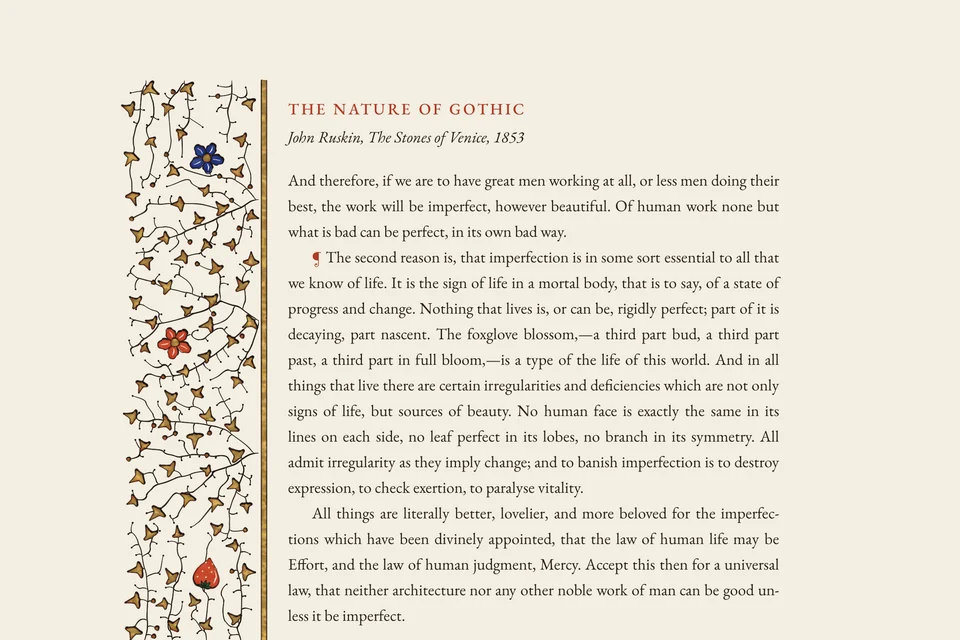
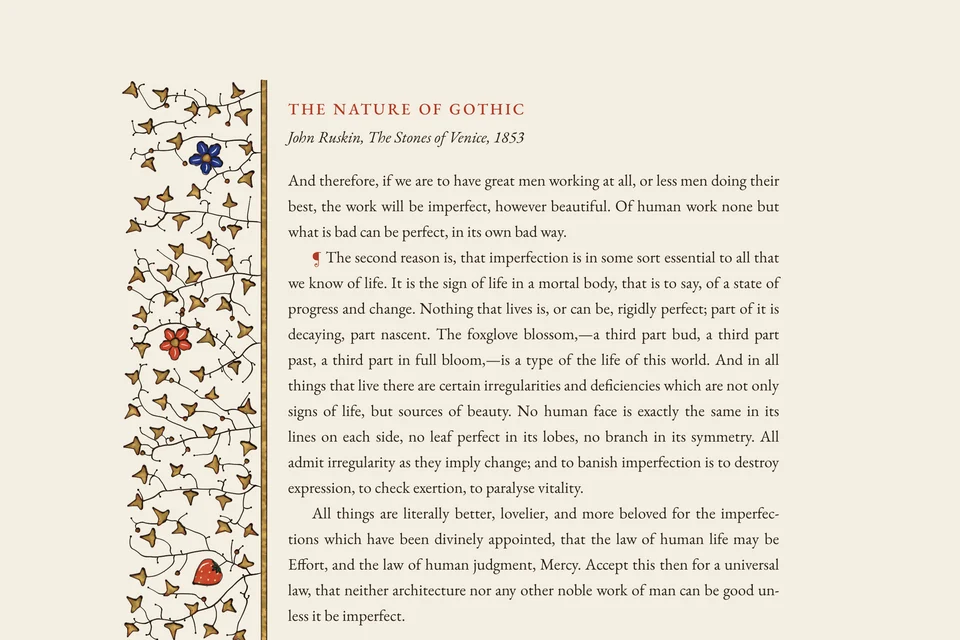
Ivy border: every stem from the bar; nothing through a leaf; leaves over stems in the growth
Stems now all spring from the bar, so nothing starts in mid-air; branches join their stem
at full width. A reached leaf keeps its room, so later twigs no longer cross it, and leaves
are sized to the room reserved for them (strawberries get more). The growth draws on two
pairs of layers, stems under leaves and flowers, so a stem that finishes late is never laid
over a leaf that opened earlier.

Claude-Session: https://claude.ai/code/session_01AVocxv6hjz2Gj8s9KXjVNV

Changed region(s): [[0.125, 0.125, 0.2812, 1.0]]

diff --git a/playground/01-ivy-border.html b/playground/01-ivy-border.html
@@ -52,6 +52,8 @@
 <main class="sheet">
   <canvas id="orn" aria-hidden="true"></canvas>
   <canvas id="live" aria-hidden="true"></canvas>
+  <canvas id="fruit" aria-hidden="true"></canvas>
+  <canvas id="fruitLive" aria-hidden="true"></canvas>
   <article class="text">
     <h1>The Nature of Gothic</h1>
     <p class="sub">John Ruskin, The Stones of Venice, 1853</p>
@@ -118,7 +120,7 @@ function compose() {
   const dpr = Math.min(2, devicePixelRatio || 1);
   const ctx = c => { c.width = Math.round(S.w * dpr); c.height = Math.round(S.h * dpr); c.style.width = S.w + 'px'; c.style.height = S.h + 'px';
     const g = c.getContext('2d'); g.setTransform(dpr, 0, 0, dpr, 0, 0); return g; };
-  const g = ctx(cv), live = ctx(document.getElementById('live'));
+  const g = ctx(cv), live = ctx(document.getElementById('live')), fg = ctx(document.getElementById('fruit')), flive = ctx(document.getElementById('fruitLive'));
   const phone = T.x < 120;
   let len, depth, toPage, bar;
   if (!phone) {   // side border: the bar runs down beside the text; v grows leftward into the margin
@@ -149,7 +151,7 @@ function compose() {
   for (const s of ST) {
     if (s.pts.length < 2) continue;
     const tip = s.ids[s.ids.length - 1], e = endAt.get(tip), pts = chaikin(s.pts, 3).map(toPage);
-    const o = { w: .5 + .8 * Math.log(1 + s.size) / Math.log(1 + maxS), seed: (tip * 7919) & 0xffff, start: s.root ? 'pool' : 'taper', end: !e || e.kind === 'dot' ? 'ball' : 'cut' };
+    const o = { w: .5 + .8 * Math.log(1 + s.size) / Math.log(1 + maxS), seed: (tip * 7919) & 0xffff, start: s.root ? 'pool' : 'cut', end: !e || e.kind === 'dot' ? 'ball' : 'cut' };
     parts.push(stem(sec(s.t0), Math.max(sec(s.t0) + .05, sec(s.t1)), pts, o));
   }
   // what the stems reached opens when they reach it: flowers (set first), then gold
@@ -162,12 +164,12 @@ function compose() {
       const paint = e.hero.kind === 'strawberry' ? cx => strawberry(cx, c, norm([c[0] - q[0], c[1] - q[1]]), e.hero.r, SEED + sd, dpr)
         : cx => flower(cx, c, e.hero.r, e.hero.kind === 'rose' ? 'vermilion' : 'lapis', SEED + sd, dpr);
       parts.push(opening(t + .2, t + 1.1, paint, [c[0] - R - 4, c[1] - R - 4, 2 * R + 8, 2 * R + 8], dpr, e.hero.kind === 'strawberry' ? q : c, (rr() < .5 ? -1 : 1) * 1.1)); }
-    else if (e.kind === 'ivy') { const c = toPage(e.p), d = norm([c[0] - q[0], c[1] - q[1]]), ax = norm([d[0] + dirAt(e.node)[0], d[1] + dirAt(e.node)[1]]), L = 14 + rr() * 6;
+    else if (e.kind === 'ivy') { const c = toPage(e.p), d = norm([c[0] - q[0], c[1] - q[1]]), ax = norm([d[0] * 1.6 + dirAt(e.node)[0], d[1] * 1.6 + dirAt(e.node)[1]]), L = 17 + rr() * 4;
       parts.push(opening(t, t + .75, cx => goldIvy(cx, q, ax, L, sd, dpr), [q[0] - L - 4, q[1] - L - 4, 2 * L + 8, 2 * L + 8], dpr, q, (rr() < .5 ? -1 : 1) * .7)); }
     else if (e.kind === 'bezant') { const d = dirAt(e.node), c = [q[0] + d[0] * 2.4, q[1] + d[1] * 2.4];
       parts.push(opening(t, t + .35, cx => bezant(cx, c, 2.5, sd, dpr), [c[0] - 6, c[1] - 6, 12, 12], dpr, q, 0)); }
   }
-  return { g, live, parts, end: Math.max(...parts.map(p => p.t1)) };
+  return { layers: [[g, live], [fg, flive]], parts, end: Math.max(...parts.map(p => p.t1)) };
 }
 // The wild strawberry of the borders: a berry hanging from its stalk, its seeds picked out, a green calyx at the top
 function strawberry(g, c, ax, R, s, dpr) {
@@ -194,7 +196,7 @@ function stem(t0, t1, pts, o) {
   const S = [0]; for (let i = 1; i < pts.length; i++) S.push(S[i - 1] + Math.hypot(pts[i][0] - pts[i - 1][0], pts[i][1] - pts[i - 1][1]));
   const upTo = f => { const L = f * S[S.length - 1]; let i = 1; while (i < S.length - 1 && S[i] < L) i++;
     const u = (L - S[i - 1]) / ((S[i] - S[i - 1]) || 1), a = pts[i - 1], b = pts[i]; return [...pts.slice(0, i), [a[0] + (b[0] - a[0]) * u, a[1] + (b[1] - a[1]) * u]]; };
-  return { t0, t1, at: (g, f) => { const p = upTo(f); if (p.length > 1 && S[S.length - 1] * f > .6) pen(g, p, { ...o, end: 'taper' }); }, done: g => pen(g, pts, o) };
+  return { t0, t1, layer: 0, at: (g, f) => { const p = upTo(f); if (p.length > 1 && S[S.length - 1] * f > .6) pen(g, p, { ...o, end: 'taper' }); }, done: g => pen(g, pts, o) };
 }
 function painted(paint, [x, y, w, h], dpr) {
   let cv = null; return () => cv ??= (() => { const c = new OffscreenCanvas(Math.ceil(w * dpr), Math.ceil(h * dpr)), k = c.getContext('2d'); k.setTransform(dpr, 0, 0, dpr, -x * dpr, -y * dpr); paint(k); return c; })();
@@ -202,14 +204,14 @@ function painted(paint, [x, y, w, h], dpr) {
 // a leaf or flower: grows out from its point of attachment, turning open as it comes
 function opening(t0, t1, paint, box, dpr, anchor, turn) {
   const img = painted(paint, box, dpr), [x, y, w, h] = box;
-  return { t0, t1, make: img, done: g => g.drawImage(img(), x, y, w, h),
+  return { t0, t1, layer: 1, make: img, done: g => g.drawImage(img(), x, y, w, h),
     at: (g, f) => { const e = Math.max(.02, ease(f)); g.save(); g.translate(anchor[0], anchor[1]); g.rotate(turn * (1 - Math.min(1, e)) ** 2); g.scale(e, e);
       g.translate(-anchor[0], -anchor[1]); g.globalAlpha = Math.min(1, f * 4); g.drawImage(img(), x, y, w, h); g.restore(); } };
 }
 // the bar: revealed from its head to its foot
 function laid(t0, t1, paint, box, dpr, [a, b]) {
   const img = painted(paint, box, dpr), [x, y, w, h] = box;
-  return { t0, t1, make: img, done: g => g.drawImage(img(), x, y, w, h),
+  return { t0, t1, layer: 1, make: img, done: g => g.drawImage(img(), x, y, w, h),
     at: (g, f) => { g.save(); g.beginPath(); const e = 1 - (1 - f) ** 2;
       if (Math.abs(b[1] - a[1]) > Math.abs(b[0] - a[0])) g.rect(x, y, w, h * e); else g.rect(x, y, w * e, h);
       g.clip(); g.drawImage(img(), x, y, w, h); g.restore(); } };
@@ -218,13 +220,14 @@ let raf = 0;
 function render(animate) {
   cancelAnimationFrame(raf);
   const t0 = performance.now(), score = compose(), t1 = performance.now();
-  if (!animate) { score.parts.forEach(p => p.done(score.g)); document.body.dataset.timing = `grow ${(t1 - t0) | 0} ms, draw ${(performance.now() - t1) | 0} ms`; return; }
+  if (!animate) { score.parts.forEach(p => p.done(score.layers[p.layer][0])); document.body.dataset.timing = `grow ${(t1 - t0) | 0} ms, draw ${(performance.now() - t1) | 0} ms`; return; }
   score.parts.forEach(p => p.make?.());   // paint the leaves and flowers before the clock starts, so it never stutters
-  const start = performance.now(), { g, live, parts } = score, W = live.canvas.width, H = live.canvas.height, finished = new Uint8Array(parts.length);
+  const start = performance.now(), { layers, parts } = score, finished = new Uint8Array(parts.length);
   const tick = () => {
     const now = (performance.now() - start) / 1000;
-    live.save(); live.setTransform(1, 0, 0, 1, 0, 0); live.clearRect(0, 0, W, H); live.restore();
-    parts.forEach((p, i) => { if (finished[i]) return; if (now >= p.t1) { p.done(g); finished[i] = 1; } else if (now > p.t0) p.at(live, (now - p.t0) / (p.t1 - p.t0)); });
+    for (const [, lv] of layers) { lv.save(); lv.setTransform(1, 0, 0, 1, 0, 0); lv.clearRect(0, 0, lv.canvas.width, lv.canvas.height); lv.restore(); }
+    parts.forEach((p, i) => { if (finished[i]) return; const [base, lv] = layers[p.layer];
+      if (now >= p.t1) { p.done(base); finished[i] = 1; } else if (now > p.t0) p.at(lv, (now - p.t0) / (p.t1 - p.t0)); });
     if (now < score.end + .05) raf = requestAnimationFrame(tick); else document.body.dataset.timing = 'grown';
   };
   raf = requestAnimationFrame(tick);

diff --git a/playground/kit/spray.js b/playground/kit/spray.js
@@ -27,22 +27,23 @@ export function poisson(len, depth, rad, r, ok, tries = 24) {
   return out;
 }
 export function grow(len, depth, heroes, seed) {
-  const r = stream(seed, 'grow'), wander = noise2(seed ^ 0x3c), D = 2.6;
+  const r = stream(seed, 'grow'), wander = noise2(seed ^ 0x3c), D = 2.6, IVY = 11;
   const clear = (p, m) => p[0] > 6 && p[0] < len - 6 && p[1] > 8 && p[1] < depth - 7 && heroes.every(h => Math.hypot(p[0] - h.c[0], p[1] - h.c[1]) > h.r + m);
-  const ivy = poisson(len, depth, 31, r, p => clear(p, 14)).map(p => ({ p, kind: 'ivy', kill: 7 }));
-  const dots = poisson(len, depth, 10.5, r, p => clear(p, 7) && ivy.every(q => Math.hypot(q.p[0] - p[0], q.p[1] - p[1]) > 13))
+  const ivy = poisson(len, depth, 33, r, p => clear(p, 16)).map(p => ({ p, kind: 'ivy', kill: IVY + .5 }));
+  const dots = poisson(len, depth, 10.5, r, p => clear(p, 7) && ivy.every(q => Math.hypot(q.p[0] - p[0], q.p[1] - p[1]) > IVY + 5))
     .filter(() => r() < .7).map(p => ({ p, kind: r() < .1 ? 'bezant' : 'dot', kill: 2.5 }));
   const A = [...ivy, ...dots];
-  heroes.forEach(h => A.push({ p: h.c, kind: 'hero', kill: h.r + 2, hero: h }));
+  heroes.forEach(h => A.push({ p: h.c, kind: 'hero', kill: h.r + (h.kind === 'strawberry' ? 9 : 4), hero: h }));
   // a stem may not pass through a leaf's room or a flower
   const rooms = A.filter(a => a.kind !== 'dot' && a.kind !== 'bezant'), RG = 24, rgw = Math.ceil(len / RG) + 1, rcell = Array.from({ length: rgw * (Math.ceil(depth / RG) + 1) }, () => []);
-  rooms.forEach(a => { const rr = a.kind === 'ivy' ? 8 : a.hero.r + 1; for (let j = Math.max(0, (a.p[1] - rr) / RG | 0); j <= (a.p[1] + rr) / RG; j++) for (let i = Math.max(0, (a.p[0] - rr) / RG | 0); i <= (a.p[0] + rr) / RG; i++) rcell[j * rgw + i]?.push(a); });
-  const blocked = (q, target) => (rcell[(Math.max(0, q[1]) / RG | 0) * rgw + (Math.max(0, q[0]) / RG | 0)] ?? []).some(a => a !== target && a.alive !== false && Math.hypot(a.p[0] - q[0], a.p[1] - q[1]) < (a.kind === 'ivy' ? 8 : a.hero.r + 1));
-  const N = [], nr = Math.max(2, Math.round(depth / 46));
-  for (let k = 0; k < nr; k++) N.push({ p: [len - 1, depth * (k + .5 + (r() - .5) * .35) / nr], parent: -1, dir: [-1, (r() - .5) * .4] });
-  for (let k = 0; k < nr - 1; k++) N.push({ p: [1, depth * (k + .5 + (r() - .5) * .4) / (nr - 1)], parent: -1, dir: [1, (r() - .5) * .4] });
-  // and a few rise from the bar itself, unevenly, as stems spring from a border's bar
-  for (let u = 90 + r() * 60; u < len - 90; u += 150 + r() * 90) N.push({ p: [u, 1], parent: -1, dir: [(r() - .5) * .6, 1] });
+  const heroRoom = h => h.r + (h.kind === 'strawberry' ? 8 : 3);
+  rooms.forEach(a => { const rr = a.kind === 'ivy' ? IVY : heroRoom(a.hero); for (let j = Math.max(0, (a.p[1] - rr) / RG | 0); j <= (a.p[1] + rr) / RG; j++) for (let i = Math.max(0, (a.p[0] - rr) / RG | 0); i <= (a.p[0] + rr) / RG; i++) rcell[j * rgw + i]?.push(a); });
+  // a reached leaf still keeps its room: nothing grows through a leaf, before or after it opens
+  const blocked = (q, target) => (rcell[(Math.max(0, q[1]) / RG | 0) * rgw + (Math.max(0, q[0]) / RG | 0)] ?? []).some(a => a !== target && Math.hypot(a.p[0] - q[0], a.p[1] - q[1]) < (a.kind === 'ivy' ? IVY : heroRoom(a.hero)));
+  // every stem springs from the bar, unevenly spaced, sweeping off it up or down the band by turns
+  const N = [];
+  for (let u = 14 + r() * 24, k = 0; u < len - 14; u += 62 + r() * 46, k++) { const s = k % 2 ? 1 : -1;
+    N.push({ p: [u, -2.4], parent: -1, dir: [s * (.5 + r() * .35), 1] }); }
   // nodes live in a grid of 12 px cells, so the nearest one is found by looking outward ring by ring
   const G = 12, gw = Math.ceil(len / G) + 2, gh = Math.ceil(depth / G) + 2, cells = Array.from({ length: gw * gh }, () => []);
   const cellOf = p => (Math.max(0, Math.min(gh - 1, (p[1] / G | 0) + 1))) * gw + Math.max(0, Math.min(gw - 1, (p[0] / G | 0) + 1));

diff --git a/playground/index.html b/playground/index.html
@@ -47,7 +47,7 @@
       <div>
         <span class="n">i.</span>
         <h2>Ivy border</h2>
-        <p>The bar border of a French Book of Hours, c. 1450–1500. Flowers and a wild strawberry are set first, gold ivy and pen dots evenly round them, and the stems grow from the bar and the ends of the margin until they have reached every one. On a phone the same rule grows a headpiece. It can grow in front of you: stems lengthen, leaves unfold.</p>
+        <p>The bar border of a French Book of Hours, c. 1450–1500. Flowers and a wild strawberry are set first, gold ivy and pen dots evenly round them, and the stems spring from the bar until they have reached every one. On a phone the same rule grows a headpiece. It can grow in front of you: stems lengthen, leaves unfold.</p>
         <p class="kind">Space colonization, worn gold on bole, a pen that pools.</p>
       </div>
     </a>
